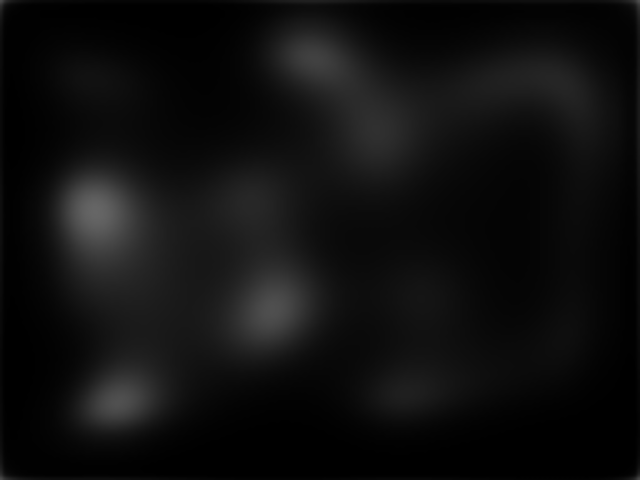
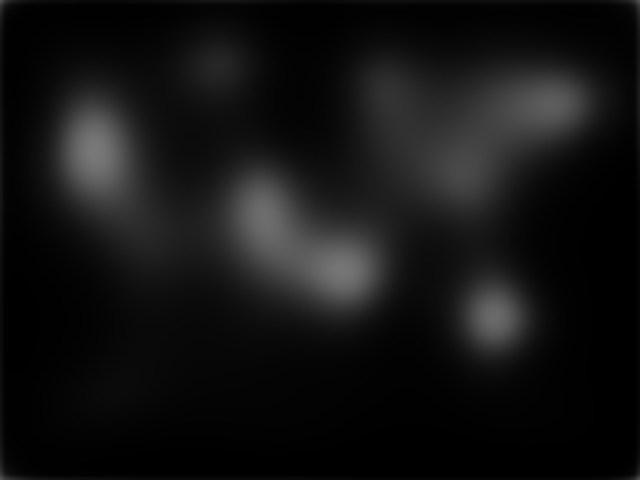
Got keypoints working

diff --git a/salgan/predictor.py b/salgan/predictor.py
@@ -17,8 +17,8 @@ import matplotlib.pyplot as plt
 import common.bowhandler as bowh
 
 
-scalex = 8
-scaley = 6
+scalex = 1 # 10
+scaley = 1 # 10
 
 all_keypoints = []
 model = None
@@ -38,6 +38,8 @@ def extractHeatmap(img):
 
     if img.shape[:2] != (model.inputHeight, model.inputWidth):
         img = cv2.resize(img, (model.inputWidth, model.inputHeight), interpolation=cv2.INTER_AREA)
+    
+    cv2.imwrite('in.png', img)
 
     blob = np.zeros((1, 3, model.inputHeight, model.inputWidth), theano.config.floatX)
 
@@ -54,7 +56,8 @@ def extractHeatmap(img):
 
 def loadModel():
     global model
-    model = ModelBCE(INPUT_SIZE[0]//scalex, INPUT_SIZE[1]//scaley, batch_size=8)
+    model = ModelBCE(INPUT_SIZE[0], INPUT_SIZE[1], batch_size=8)
+    # model = ModelBCE(640//scalex, 480//scaley, batch_size=8)
     load_weights(model.net['output'], path='gen_', epochtoload=90)
 
 
@@ -71,7 +74,11 @@ def runSalgan(frames):
     for frame in frames:
         print(f'Proccessing frame {count} of {len(frames)}')
         img, img_gs, img_orig = preprocess_image(frame, (640//scalex, 480//scaley))
+        # cv2.imwrite('orig.png', img_orig)
+        # cv2.imwrite('gray.png', img_gs)
+        # cv2.imwrite('in.png', img)
         heatmap = extractHeatmap(img)
+        cv2.imwrite('heat.png', heatmap)
         # heatmap = cv2.imread('heat.png', IMREAD_GRAYSCALE)
         # keypoints = generator.generateKeypoints(img_gs, heatmap)
         # pickle.dump(keypoints, open("keypoints", "wb"))
@@ -100,10 +107,6 @@ def runSalgan(frames):
         #     cv2.circle(img_orig, keypoint, 1, color=(0,255,0), thickness=2)
         # cv2.imwrite("key.png", img_orig)
 
-
-        # cv2.imwrite('orig.png', img_orig)
-        # cv2.imwrite('heat.png', heatmap)
-        
         
         descriptor_list.append(descriptor)
         count += 1

diff --git a/common/handler.py b/common/handler.py
@@ -448,6 +448,23 @@ def rotate(origin, point, angle):
     return qx, qy
 
 
+def saveKPs(keypoints):
+    outfile = open(f'kps', 'wb') 
+    kps = []
+    for kp in keypoints:
+        kps.append(kp.pt)
+    pickle.dump(kps, outfile)
+
+def readKPs():
+    infile = open(f'kps', 'rb')
+    kps = []
+    for kp in pickle.load(infile):
+        kps.append(cv2.KeyPoint(kp[0], kp[1], 1))
+    return kps
+  
+
+
+
 def showKeyPoints(image, keypoints, save=False, new=False):
     name = 'keypoints'
 
@@ -460,6 +477,26 @@ def showKeyPoints(image, keypoints, save=False, new=False):
     
     if save:
         cv2.imwrite(f'{name}.png', image)
+        saveKPs(keypoints)
+    cv2.imshow(name, image)
+
+    while True:
+        if(cv2.waitKey(0) & 0xFF == ord('q')):
+            break
+
+def showKeyPointsBoth(image, suppoints, salpoints):
+    name = 'keypoints'
+
+    cv2.namedWindow(name, cv2.WINDOW_NORMAL)
+    cv2.resizeWindow(name, 640*2, 480)
+
+    for sup in suppoints:
+            cv2.circle(image, (int(sup.pt[0]), int(sup.pt[1])), radius=1, color=(0, 238, 255), thickness=2)
+    for sal in salpoints:
+            cv2.circle(image, (int(sal.pt[0]), int(sal.pt[1])), radius=1, color=(219, 255, 120), thickness=2)
+
+    
+    cv2.imwrite(f'{name}.png', image)
     cv2.imshow(name, image)
 
     while True:

diff --git a/salgan/test.py b/salgan/test.py
@@ -31,24 +31,3 @@ if __name__ == "__main__":
     # for i in range(10):
     #     targetframe = ((i+40)*50)
     #     runSuperpoint('/root/MONO_LONG/', targetframe, i)
-
-
-    # handler.readFolder('/root/ORB_FR1/')
-    # filenames, frames, last = handler.getNewFrames(last=1)
-
-    # predictor.loadModel()
-    # start_time = time.time()
-    # predictor.runSalgan(frames)
-    # elapsed_time = time.time()-start_time
-    
-    # print(f'Took {elapsed_time}')
-    # keypoints = predictor.all_keypoints[0]
-    # if not os.path.exists('keypoints.png'):
-    #     handler.readFolder('/root/ORB_FR1/')
-    #     filenames, frames, last = handler.getNewFrames(last=4)
-    #     predictor.runSalgan(frames)
-    #     keypoints = predictor.all_keypoints[0]
-    # else:
-    #     keypoints = []
-    #     frames = [cv2.imread('keypoints.png')]
-    # handler.showKeyPoints(frames[0], keypoints, save=True, new=True)

diff --git a/common/test.py b/common/test.py
@@ -1,0 +1,16 @@
+import common.handler as handler
+import os
+
+
+def runBoth(name, targetframe, i=0):
+    handler.readFolder(name)
+    filenames, frames, last = handler.getNewFrames(first=targetframe, last=targetframe+1)
+    os.chdir('/root/HGI_SLAM/superpoint')
+    suppoints = handler.readKPs()
+    os.chdir('/root/HGI_SLAM/salgan')
+    salpoints = handler.readKPs()
+    handler.showKeyPointsBoth(frames[0], suppoints, salpoints)
+
+
+if __name__ == "__main__":
+    runBoth('/root/MONO_LONG/', 1450)

diff --git a/salgan/generator.py b/salgan/generator.py
@@ -21,7 +21,7 @@ scalex = 1
 scaley = 1
 
 
-def generateKeypoints(image_gs, heatmap, num_points=1000):
+def generateKeypoints(image_gs, heatmap, num_points=300):
     global s_smooth, g_ths, has_selected, keypoints, num_sel, total_weight
     keypoints = []
     grad_image, oren_image = computeGradients(image_gs)
